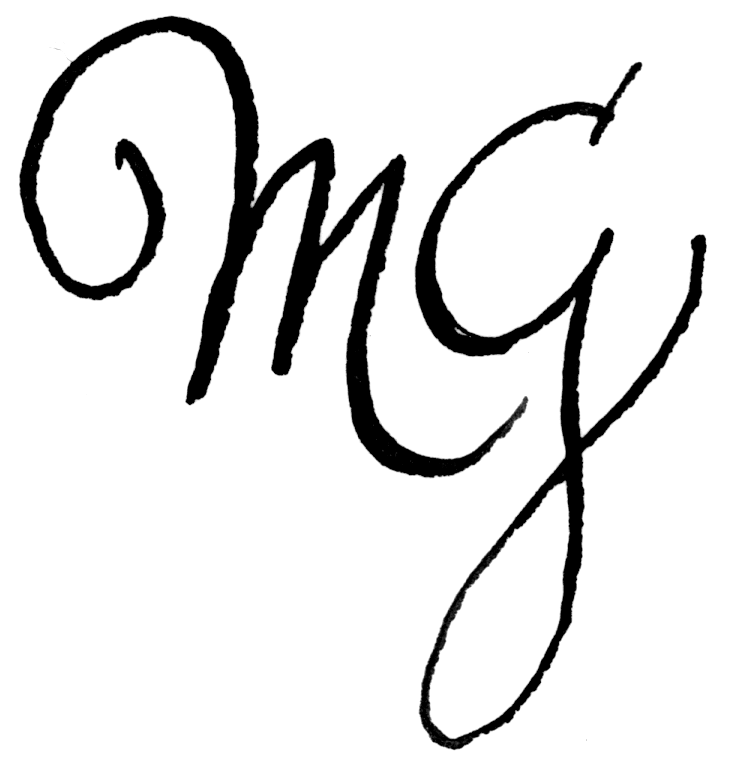
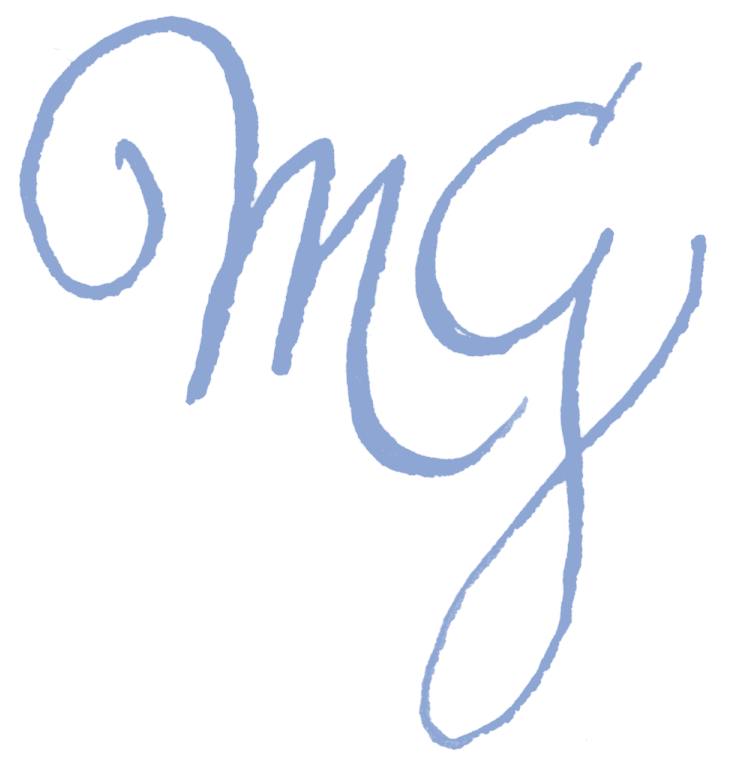
feat: update content and assets across multiple pages
- Schedule: update ceremony address (Masseria Ganci), simplify reception/festeggiamenti text, add Pranzo icon with transparent bg
- Location: reorder sections (mappa illustrata first, Google Maps second), update copy for "I Ganci" section, fix eyebrow label
- Registry: rewrite intro text, add Valigie image, update PayPal/bonifico descriptions, layout tweaks
- Album: update intro text, add inline Drive link
- All headers: reduce page title PNG to 50% (RSVP at 30%)
- WeddingTimeline: add white-space: pre-line for multiline descriptions
- iniziali.png: recolor to brand blue #8DA6D4

diff --git a/src/views/LocationView.vue b/src/views/LocationView.vue
@@ -6,6 +6,30 @@
     <img src="/tit-location.png" alt="Location" class="page-title-img" />
   </section>
 
+  <!-- ─── Il posto è grande: illustrated map ───────────────────────────── -->
+  <section class="map-section" aria-label="Mappa della location">
+    <div class="map-section-inner">
+      <h2 class="map-title">I Ganci</h2>
+      <p class="map-body">
+        La cerimonia sta da una parte e il ricevimento dall'altra, ma alla fine
+        è tutto nello stesso posto. Come si vede da questa mappa.
+      </p>
+      <p class="map-body">
+        Il parcheggio è in via Ganci, 15, di fianco a Ganci Farm, la location del ricevimento.
+        Parcheggiate lì la vostra auto e venite a piedi in via Ganci 20, dove si terrà la cerimonia.
+        Troverete le indicazioni sul posto.
+      </p>
+      <p class="map-body map-body--note">
+        Sconsigliamo i tacchi a spillo, la cerimonia si svolge sul prato.
+      </p>
+      <img
+        src="/mappa-ganci.png"
+        alt="Mappa illustrata di Ganci Farm con cerimonia, ricevimento e parcheggio"
+        class="map-illustrated"
+      />
+    </div>
+  </section>
+
   <!-- ─── Location: Ganci Farm ─────────────────────────────────────────── -->
   <section class="locations-section" aria-label="La location">
     <div class="locations-inner locations-inner--single">
@@ -20,7 +44,7 @@
           />
         </div>
         <div class="location-info">
-          <p class="location-eyebrow">Cerimonia e ricevimento</p>
+          <p class="location-eyebrow">Vai al parcheggio</p>
           <h2 class="location-title">Ganci Farm</h2>
           <p class="location-address">
             Via Ganci, 15<br />
@@ -37,23 +61,6 @@
           </a>
         </div>
       </article>
-    </div>
-  </section>
-
-  <!-- ─── Il posto è grande: illustrated map ───────────────────────────── -->
-  <section class="map-section" aria-label="Mappa della location">
-    <div class="map-section-inner">
-      <p class="map-eyebrow">Orientati</p>
-      <h2 class="map-title">Il posto è grande</h2>
-      <p class="map-body">
-        La cerimonia sta da una parte e il ricevimento dall'altra, ma alla fine
-        è tutto nello stesso posto. Come si vede da questa mappa.
-      </p>
-      <img
-        src="/mappa-ganci.png"
-        alt="Mappa illustrata di Ganci Farm con cerimonia, ricevimento e parcheggio"
-        class="map-illustrated"
-      />
     </div>
   </section>
 </template>
@@ -74,7 +81,7 @@
 }
 
 .page-title-img {
-  width: 100%;
+  width: 50%;
   max-width: var(--content-wide);
   height: auto;
 }
@@ -119,6 +126,10 @@
   line-height: 1.75;
   color: var(--wedding-ink-muted);
   max-width: 36rem;
+}
+
+.map-body--note {
+  font-style: italic;
 }
 
 .map-illustrated {

diff --git a/src/views/RegistryView.vue b/src/views/RegistryView.vue
@@ -1,4 +1,6 @@
 <script setup lang="ts">
+import valigieImg from "@/assets/images/valigie.png";
+
 const PAYPAL_URL = "https://paypal.me/MartaZoeC";
 
 const IBAN = "IT26 R036 6901 6008 9464 0322 584";
@@ -15,11 +17,15 @@ const BANK_BENEFICIARY = "Giacomo Andreoli & Marta Zoe Cagliero";
   <!-- ─── Intro ────────────────────────────────────────────────────────── -->
   <section class="intro-section">
     <div class="intro-inner">
-      <p class="intro-text">
-        La vostra presenza è il regalo più grande che potessimo desiderare.
-        In caso voleste contribuire al nostro viaggio di nozze, ecco qualche
-        modo per farlo — con tutto il nostro affetto e gratitudine.
-      </p>
+      <img :src="valigieImg" alt="Valigie" class="intro-image" />
+      <div class="intro-texts">
+        <p class="intro-text">
+          Non è necessario che ci facciate dei regali, siamo già felicissimi della vostra presenza!
+        </p>
+        <p class="intro-text">
+          In caso voleste contribuire al nostro <strong>viaggio di nozze</strong>, potete farlo qui:
+        </p>
+      </div>
     </div>
   </section>
 
@@ -41,7 +47,7 @@ const BANK_BENEFICIARY = "Giacomo Andreoli & Marta Zoe Cagliero";
           <div class="gift-card-body">
             <h3 class="gift-card-title">Bonifico Bancario</h3>
             <p class="gift-card-desc">
-              Preferite il classico bonifico? Eccovi i dati per il trasferimento.
+              <em>Esempio causale: Regalo Matrimonio - Il vostro nome</em>
             </p>
             <div class="iban-block" aria-label="Dati bancari">
               <div class="iban-row">
@@ -74,8 +80,7 @@ const BANK_BENEFICIARY = "Giacomo Andreoli & Marta Zoe Cagliero";
           <div class="gift-card-body">
             <h3 class="gift-card-title">Contributo PayPal</h3>
             <p class="gift-card-desc">
-              Il modo più semplice e veloce. Basta un clic per inviarci
-              un pensiero direttamente online.
+              In alternativa al bonifico potete usare Paypal attraverso il link qui sotto
             </p>
           </div>
           <a
@@ -110,7 +115,7 @@ const BANK_BENEFICIARY = "Giacomo Andreoli & Marta Zoe Cagliero";
 }
 
 .page-title-img {
-  width: 100%;
+  width: 50%;
   max-width: var(--content-wide);
   height: auto;
 }
@@ -122,9 +127,23 @@ const BANK_BENEFICIARY = "Giacomo Andreoli & Marta Zoe Cagliero";
 }
 
 .intro-inner {
-  max-width: 42rem;
+  max-width: 48rem;
   margin: 0 auto;
-  text-align: center;
+  display: flex;
+  align-items: center;
+  gap: 2.5rem;
+}
+
+.intro-image {
+  width: 140px;
+  flex-shrink: 0;
+  height: auto;
+}
+
+.intro-texts {
+  display: flex;
+  flex-direction: column;
+  gap: 0.75rem;
 }
 
 .intro-text {

diff --git a/src/views/ScheduleView.vue b/src/views/ScheduleView.vue
@@ -2,27 +2,28 @@
 import WeddingTimeline from "@/components/WeddingTimeline.vue";
 import type { TimelineEvent } from "@/components/WeddingTimeline.vue";
 import bouquetIcon from "@/assets/images/bouquet.png";
-import fioriIcon from "@/assets/images/fiori.png";
+import pranzoIcon from "@/assets/images/pranzo.png";
 import tortaIcon from "@/assets/images/torta.png";
 
 const events: TimelineEvent[] = [
   {
     time: "11:30",
     title: "Cerimonia civile",
-    description: "Via Mezzalunga, 2 — 17015 Celle Ligure",
+    description: "Masseria Ganci – Via Ganci, 20 – 17015 Celle Ligure",
     iconImage: bouquetIcon,
   },
   {
     time: "13:30",
     title: "Ricevimento",
     description:
-      "Ganci Farm — Via Ganci, 15 — 17015 Celle Ligure. Pranzo immerso nel verde delle colline liguri.",
-    iconImage: fioriIcon,
+      "Ganci Farm — Via Ganci, 15 — 17015 Celle Ligure.",
+    iconImage: pranzoIcon,
   },
   {
     title: "Festeggiamenti",
     description:
-      "Seguiranno torta e festeggiamenti! Si apre la pista: la giornata continua con musica e tanta voglia di ballare e stare insieme. Anche i bambini si divertiranno — sarà disponibile un servizio di baby-sitting durante tutta la durata dell'evento.",
+      "Seguiranno torta e musica!\nPer tutto il ricevimento sarà disponibile un servizio di baby-sitting.",
+
     iconImage: tortaIcon,
   },
 ];
@@ -62,7 +63,7 @@ const events: TimelineEvent[] = [
 }
 
 .page-title-img {
-  width: 100%;
+  width: 50%;
   max-width: var(--content-wide);
   height: auto;
 }

diff --git a/src/views/AlbumView.vue b/src/views/AlbumView.vue
@@ -8,10 +8,9 @@
   <section class="intro-section">
     <div class="intro-inner">
       <p class="intro-text">
-        Ogni sguardo, ogni abbraccio, ogni momento di gioia — visti attraverso i vostri occhi.
         Qui trovi un modo semplice per condividere con noi tutte le foto e i video che hai fatto
-        durante il grande giorno. Usa il link qui sotto per accedere all'album e carica i tuoi
-        scatti: sarà il nostro modo di rivivere questa giornata insieme, ancora e ancora.
+        durante l'evento. Usa <a href="https://drive.google.com/drive/folders/1xBdXuXFddrbAgJ3cLotUmSw14D0wCXz7" target="_blank" rel="noopener noreferrer" class="intro-link">il link qui sotto</a> per accedere all'album e carica i tuoi scatti:
+        sarà il nostro modo di rivivere questa giornata insieme.
       </p>
     </div>
   </section>
@@ -74,7 +73,7 @@
 }
 
 .page-title-img {
-  width: 100%;
+  width: 50%;
   max-width: var(--content-wide);
   height: auto;
 }
@@ -96,6 +95,11 @@
   font-size: clamp(1.0625rem, 2.5vw, 1.25rem);
   line-height: 1.8;
   color: var(--wedding-ink-muted);
+}
+
+.intro-link {
+  color: var(--wedding-brand-dark);
+  text-decoration: underline;
 }
 
 /* ── CTA section ────────────────────────────────────────────────────────── */

diff --git a/src/views/RsvpView.vue b/src/views/RsvpView.vue
@@ -466,7 +466,7 @@ async function handleSubmit() {
 }
 
 .page-title-img {
-  width: 100%;
+  width: 30%;
   max-width: var(--content-wide);
   height: auto;
 }

diff --git a/src/components/WeddingTimeline.vue b/src/components/WeddingTimeline.vue
@@ -176,6 +176,7 @@ defineProps<{
   line-height: 1.75;
   color: var(--wedding-ink-muted);
   max-width: 52ch;
+  white-space: pre-line;
 }
 
 /* ── Responsive ─────────────────────────────────────────────────────────── */